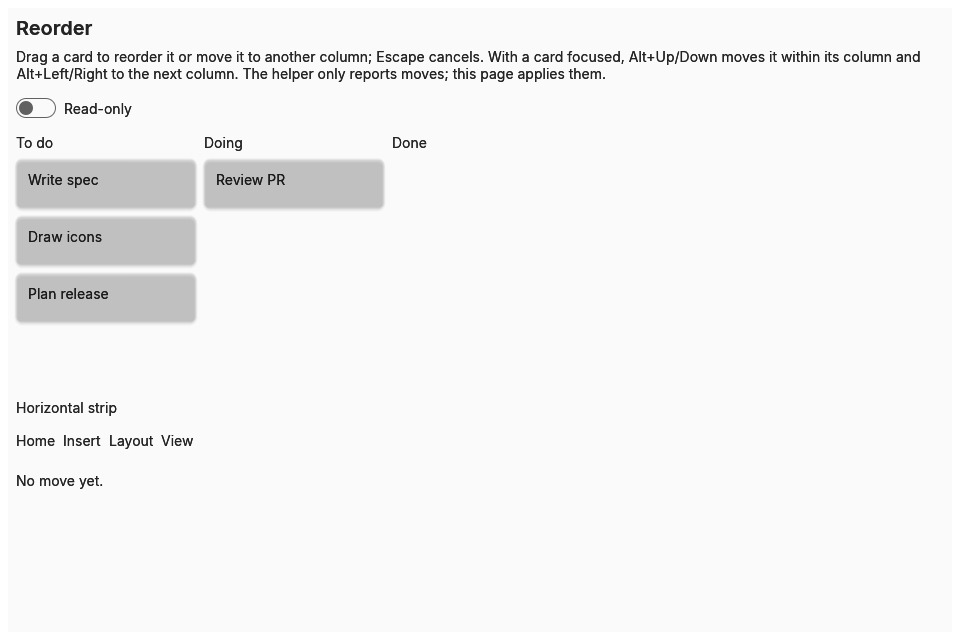
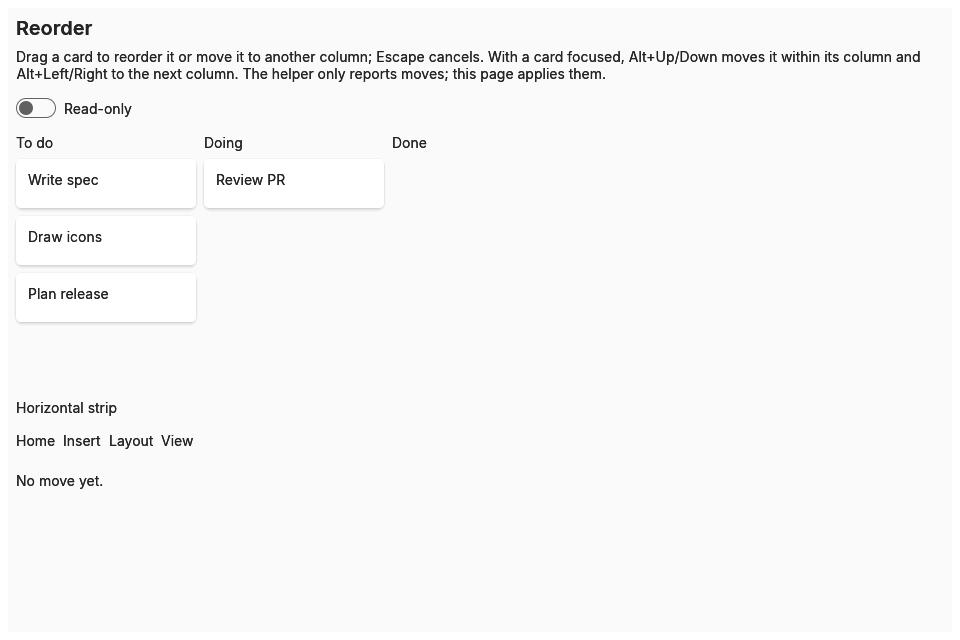
Card shadow order and danger Badge contrast (#124) (#136)
* Fix Card shadow over its fill and dark danger Badge contrast (#124)

Card painted its elevation shadow after its fill, so resting cards looked
grey. The shadow shapes now go into the layer slot reserved before the
content, ahead of the fill. elevation::shadow_shapes returns them for that.

The dark theme's status_danger_foreground_inverted was the fill's own red,
so a filled danger Badge's label was unreadable (1.17:1). It is now white,
about 6:1 on status_danger_background_3. Light keeps Fluent's value.

Tests: tests/card.rs (shadow paints before fill, light and dark) and
tests/badge.rs (filled danger label meets 4.5:1 in dark). Both fail on the
previous code.

Snapshots changed by the card fix (gallery, scripts/gallery-screenshots.sh
--update): docs/images/gallery/reorder-dark.png and reorder-light.png. Resting
cards now show the surface colour. No other image changed.

* Badge test covers light and dark; light danger Badge text is white (#124)

tests/badge.rs now loops over the light and dark themes. Fluent's light
status_danger_foreground_inverted gave a filled danger Badge a 1.74:1
label, so light takes white too (about 6:1), as dark does. Gallery
PNGs are unchanged (scripts/gallery-screenshots.sh check passes).

---------

Changed region(s): [[0.0, 0.25, 0.4062, 0.5]]

diff --git a/crates/fluent2-egui/tests/badge.rs b/crates/fluent2-egui/tests/badge.rs
@@ -1,0 +1,96 @@
+//! A filled danger Badge is readable in dark mode (issue #124).
+//!
+//! The test reads the badge's painted fill and text colour from one frame and checks the WCAG
+//! contrast between them against the 4.5:1 text minimum.
+
+use egui::{Color32, Shape, Vec2};
+use fluent2_egui::controls::{Badge, BadgeAppearance, BadgeColor};
+use fluent2_egui::theme::{Theme, c, install};
+use fluent2_tokens::FLUENT;
+
+/// Run `build` for two frames and return the second frame's shapes, with every
+/// `Shape::Vec` expanded.
+fn shapes(theme: &Theme, build: impl Fn(&mut egui::Ui)) -> Vec<Shape> {
+    let ctx = egui::Context::default();
+    install(&ctx, theme);
+    let mut last = Vec::new();
+    for _ in 0..2 {
+        let raw = egui::RawInput {
+            screen_rect: Some(egui::Rect::from_min_size(
+                egui::Pos2::ZERO,
+                Vec2::new(400.0, 200.0),
+            )),
+            ..Default::default()
+        };
+        let mut output = ctx.run_ui(raw, |ui| build(ui));
+        last = flatten(output.shapes.into_iter().map(|clipped| clipped.shape));
+        // egui panics if texture deltas are dropped unhandled; this test does not upload them.
+        output.textures_delta.clear();
+    }
+    last
+}
+
+fn flatten(shapes: impl Iterator<Item = Shape>) -> Vec<Shape> {
+    shapes
+        .flat_map(|shape| match shape {
+            Shape::Vec(inner) => flatten(inner.into_iter()),
+            other => vec![other],
+        })
+        .collect()
+}
+
+/// WCAG relative luminance of an sRGB colour.
+fn luminance(color: Color32) -> f64 {
+    let linear = |channel: u8| {
+        let s = f64::from(channel) / 255.0;
+        if s <= 0.03928 {
+            s / 12.92
+        } else {
+            ((s + 0.055) / 1.055).powf(2.4)
+        }
+    };
+    0.2126 * linear(color.r()) + 0.7152 * linear(color.g()) + 0.0722 * linear(color.b())
+}
+
+/// WCAG contrast ratio, from 1 to 21.
+fn contrast(a: Color32, b: Color32) -> f64 {
+    let (la, lb) = (luminance(a), luminance(b));
+    let (hi, lo) = if la > lb { (la, lb) } else { (lb, la) };
+    (hi + 0.05) / (lo + 0.05)
+}
+
+#[test]
+fn filled_danger_badge_text_meets_aa_on_its_fill_in_both_themes() {
+    for theme in [Theme::light(FLUENT), Theme::dark(FLUENT)] {
+        let fill = c(theme.color.status_danger_background_3);
+        let painted = shapes(&theme, |ui| {
+            ui.add(
+                Badge::new("Failed")
+                    .appearance(BadgeAppearance::Filled)
+                    .color(BadgeColor::Danger),
+            );
+        });
+
+        assert!(
+            painted
+                .iter()
+                .any(|shape| matches!(shape, Shape::Rect(r) if r.fill == fill)),
+            "the badge paints its danger fill {fill:?} in {:?}",
+            theme.kind,
+        );
+        let text = painted
+            .iter()
+            .find_map(|shape| match shape {
+                Shape::Text(t) if t.galley.text() == "Failed" => Some(t.fallback_color),
+                _ => None,
+            })
+            .unwrap_or_else(|| panic!("the badge paints its label \"Failed\" in {:?}", theme.kind));
+
+        let ratio = contrast(text, fill);
+        assert!(
+            ratio >= 4.5,
+            "filled danger badge text {text:?} on {fill:?} is {ratio:.2}:1, below 4.5:1 ({:?})",
+            theme.kind,
+        );
+    }
+}

diff --git a/crates/fluent2-egui/tests/card.rs b/crates/fluent2-egui/tests/card.rs
@@ -1,0 +1,83 @@
+//! Card paints its elevation shadow behind its fill, in light and dark (issue #124).
+//!
+//! These tests read one frame's shapes. The shadow is a blurred rect shape; the fill is a
+//! plain rect shape with the face colour. The shadow must come first in paint order.
+
+use egui::{Shape, Vec2};
+use fluent2_egui::surfaces::{Card, CardAppearance, CardHeader};
+use fluent2_egui::theme::{Theme, c, install};
+use fluent2_tokens::FLUENT;
+
+/// Run `build` for two frames and return the second frame's shapes, with every
+/// `Shape::Vec` expanded so the list is in paint order.
+fn shapes(theme: &Theme, build: impl Fn(&mut egui::Ui)) -> Vec<Shape> {
+    let ctx = egui::Context::default();
+    install(&ctx, theme);
+    let mut last = Vec::new();
+    for _ in 0..2 {
+        let raw = egui::RawInput {
+            screen_rect: Some(egui::Rect::from_min_size(
+                egui::Pos2::ZERO,
+                Vec2::new(600.0, 400.0),
+            )),
+            ..Default::default()
+        };
+        let mut output = ctx.run_ui(raw, |ui| build(ui));
+        last = flatten(output.shapes.into_iter().map(|clipped| clipped.shape));
+        // egui panics if texture deltas are dropped unhandled; this test does not upload them.
+        output.textures_delta.clear();
+    }
+    last
+}
+
+fn flatten(shapes: impl Iterator<Item = Shape>) -> Vec<Shape> {
+    shapes
+        .flat_map(|shape| match shape {
+            Shape::Vec(inner) => flatten(inner.into_iter()),
+            other => vec![other],
+        })
+        .collect()
+}
+
+fn resting_card(ui: &mut egui::Ui) {
+    Card::new()
+        .appearance(CardAppearance::Filled)
+        .id_salt("card")
+        .show(ui, |ui| {
+            CardHeader::new("Card title")
+                .description("Card description")
+                .show(ui);
+        });
+}
+
+#[test]
+fn resting_filled_card_paints_its_shadow_before_its_fill_in_both_themes() {
+    for theme in [Theme::light(FLUENT), Theme::dark(FLUENT)] {
+        let painted = shapes(&theme, resting_card);
+        let fill = c(theme.color.neutral_background_1);
+
+        let fill_at = painted
+            .iter()
+            .position(|shape| matches!(shape, Shape::Rect(r) if r.fill == fill && r.blur_width == 0.0))
+            .unwrap_or_else(|| panic!("no card fill of {fill:?} in {:?}", theme.kind));
+        let shadow_at: Vec<usize> = painted
+            .iter()
+            .enumerate()
+            .filter_map(|(i, shape)| match shape {
+                Shape::Rect(r) if r.blur_width > 0.0 => Some(i),
+                _ => None,
+            })
+            .collect();
+
+        assert!(
+            !shadow_at.is_empty(),
+            "a filled card at rest has a shadow in {:?}",
+            theme.kind
+        );
+        assert!(
+            shadow_at.iter().all(|&i| i < fill_at),
+            "every shadow layer paints before the fill (fill at {fill_at}, shadows at {shadow_at:?}) in {:?}",
+            theme.kind,
+        );
+    }
+}

diff --git a/crates/fluent2-egui/src/theme/mod.rs b/crates/fluent2-egui/src/theme/mod.rs
@@ -201,7 +201,7 @@ impl Theme {
     pub fn light(brand: BrandRamp) -> Self {
         Self {
             kind: ThemeKind::Light,
-            color: fluent2_tokens::light(&brand),
+            color: light_aa_overrides(fluent2_tokens::light(&brand)),
             shadow: fluent2_tokens::generated::web_light::SHADOWS,
             brand,
             chrome: ChromeMetrics::default(),
@@ -270,11 +270,33 @@ impl Default for Theme {
 /// decision 2026-10-19). Fluent's dark `status_danger_foreground_1` is 4.16:1 on
 /// `neutral_background_1` and `neutral_foreground_2_brand_hover` is 4.18:1 on
 /// `subtle_background_hover`. They take `status_danger_foreground_3` (about 8:1) and
-/// `neutral_foreground_2_hover` instead. Light and high contrast keep Fluent's values.
+/// `neutral_foreground_2_hover` instead. Fluent's dark `status_danger_foreground_inverted` is
+/// the fill's own red (177,14,28) on `status_danger_background_3` (197,15,31), so a filled
+/// danger Badge is unreadable (issue #124). It takes white, about 6:1 on that fill.
+/// High contrast keeps Fluent's values.
 fn dark_aa_overrides(mut color: AliasColors) -> AliasColors {
     color.status_danger_foreground_1 = color.status_danger_foreground_3;
+    color.status_danger_foreground_inverted = white();
     color.neutral_foreground_2_brand_hover = color.neutral_foreground_2_hover;
     color
+}
+
+/// Light-theme departure from Fluent's tokens (issue #124). Fluent's light
+/// `status_danger_foreground_inverted` is (220,98,109) on `status_danger_background_3`
+/// (197,15,31), about 1.7:1, so a filled danger Badge's label fails AA. It takes white,
+/// about 6:1 on that fill, as the dark theme does.
+fn light_aa_overrides(mut color: AliasColors) -> AliasColors {
+    color.status_danger_foreground_inverted = white();
+    color
+}
+
+fn white() -> Rgba {
+    Rgba {
+        r: 255,
+        g: 255,
+        b: 255,
+        a: 255,
+    }
 }
 
 /// `Rgba` as an unmultiplied [`egui::Color32`].

diff --git a/crates/fluent2-egui/src/surfaces/card.rs b/crates/fluent2-egui/src/surfaces/card.rs
@@ -188,18 +188,24 @@ impl<'a> Card<'a> {
                 selected_now,
                 interactive,
             );
-            if let Some(step) = shadow {
-                elevation::paint_shadow(ui.painter(), rect, radius, step, &theme);
-            }
-            let shape = RectShape::new(
-                rect,
-                radius,
-                c(fill),
-                Stroke::new(stroke_width::THIN, c(stroke)),
-                StrokeKind::Inside,
+            // The shadow goes into the slot reserved before the content, ahead of the fill, so it
+            // sits behind the card instead of over its fill (issue #124).
+            let mut shapes = shadow.map_or_else(Vec::new, |step| {
+                elevation::shadow_shapes(&theme, rect, radius, step)
+            });
+            shapes.push(
+                RectShape::new(
+                    rect,
+                    radius,
+                    c(fill),
+                    Stroke::new(stroke_width::THIN, c(stroke)),
+                    StrokeKind::Inside,
+                )
+                .into(),
             );
             ui.ctx().graphics_mut(|gfx| {
-                gfx.entry(layer).set(frame_idx, ui.clip_rect(), shape.into());
+                gfx.entry(layer)
+                    .set(frame_idx, ui.clip_rect(), egui::Shape::Vec(shapes));
             });
             if interactive && focus::focus_visible(ui, &response) {
                 paint_focus_ring(ui, rect, radius);

diff --git a/crates/fluent2-egui/src/foundation/elevation.rs b/crates/fluent2-egui/src/foundation/elevation.rs
@@ -1,6 +1,6 @@
 //! Fluent elevation shadows.
 
-use egui::{Color32, CornerRadius, Painter, Shadow, epaint::Rect};
+use egui::{Color32, CornerRadius, Painter, Shadow, Shape, epaint::Rect};
 use fluent2_tokens::ShadowLayer;
 
 use crate::theme::Theme;
@@ -33,12 +33,20 @@ pub fn paint_shadow(
     elevation: Elevation,
     theme: &Theme,
 ) {
-    for layer in layers(theme, elevation) {
-        let Some(shadow) = shadow_from_layer(layer) else {
-            continue;
-        };
-        painter.add(shadow.as_shape(rect, radius));
+    for shape in shadow_shapes(theme, rect, radius, elevation) {
+        painter.add(shape);
     }
+}
+
+/// The shapes [`paint_shadow`] paints, in token order, for a caller that must place them in a
+/// layer slot itself. A surface that paints its fill into a slot reserved earlier puts these
+/// before the fill, or the shadow lands on top of it.
+pub fn shadow_shapes(theme: &Theme, rect: Rect, radius: CornerRadius, elevation: Elevation) -> Vec<Shape> {
+    layers(theme, elevation)
+        .iter()
+        .filter_map(shadow_from_layer)
+        .map(|shadow| Shape::from(shadow.as_shape(rect, radius)))
+        .collect()
 }
 
 fn layers(theme: &Theme, elevation: Elevation) -> &'static [ShadowLayer] {

diff --git a/changelog.d/gh-124-card-badge.md b/changelog.d/gh-124-card-badge.md
@@ -1,0 +1,4 @@
+### Fixed
+
+- `Card` paints its elevation shadow behind its fill. A resting card had looked grey, because the shadow was drawn over the surface colour.
+- The foreground for a filled danger `Badge` is white in light and dark themes. It was unreadable in dark (the fill's own red, about 1.2:1) and low-contrast in light (about 1.7:1). It is now about 6:1 on the fill in both.
